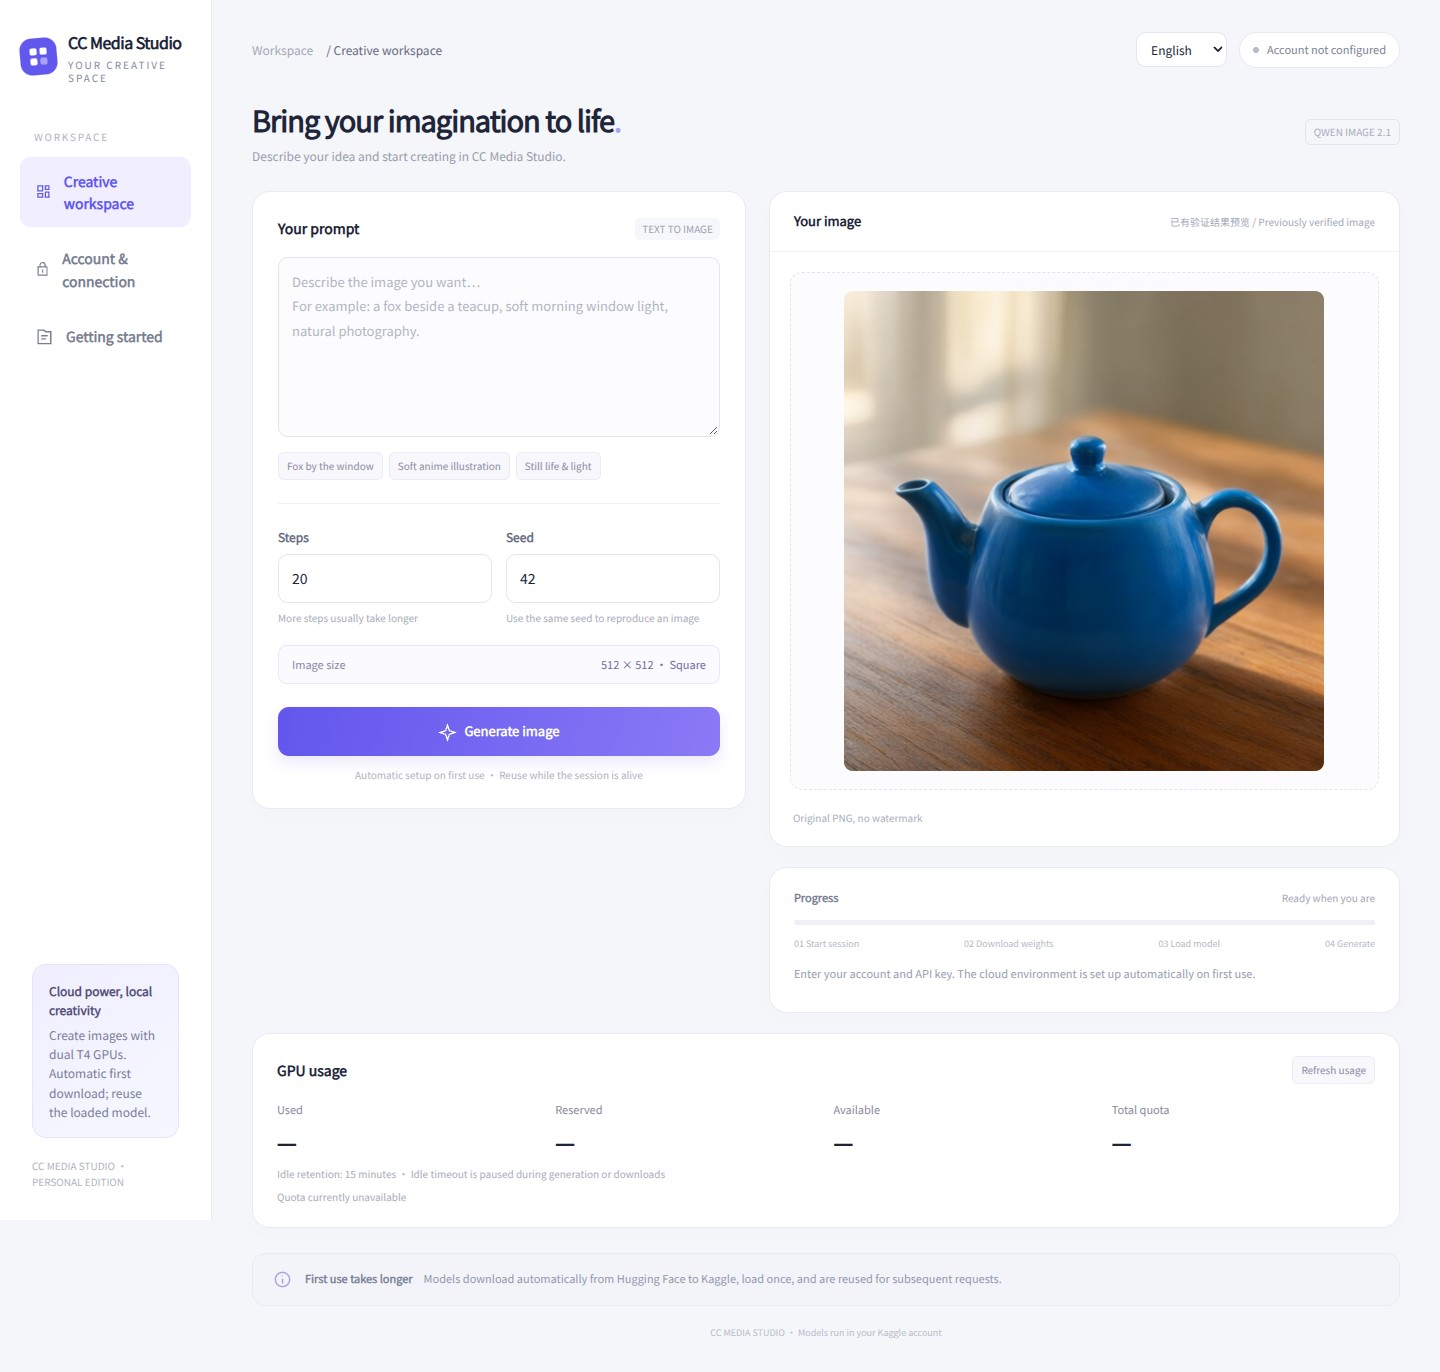
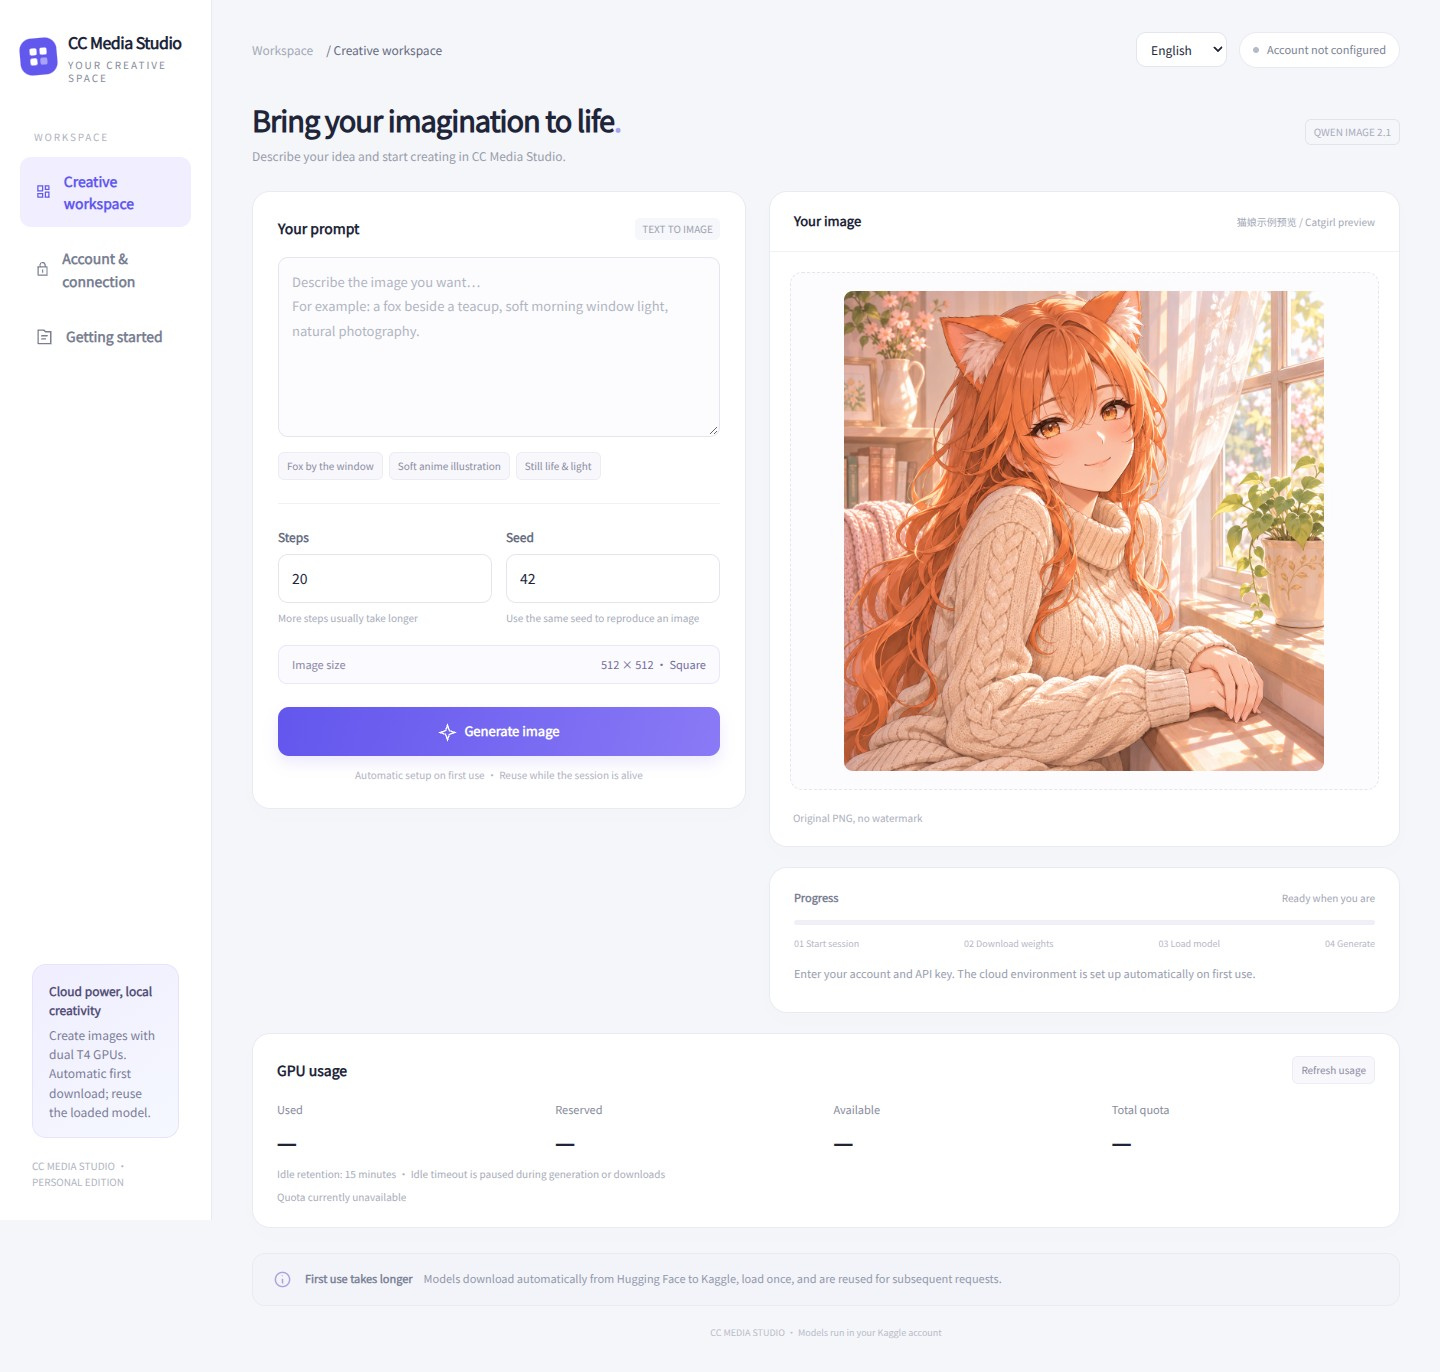
Replace GUI documentation preview with an anime catgirl

Changed region(s): [[0.5625, 0.2143, 0.9375, 0.5816], [0.8125, 0.1531, 0.9062, 0.1837]]

diff --git a/README.en.md b/README.en.md
@@ -4,7 +4,7 @@
 
 ![CC Media Studio English interface](docs/gui-en.jpg)
 
-The preview uses a previously verified generated image. No live account quota is connected in this screenshot.
+The interface preview uses an illustrative catgirl image, not a verified Kaggle output. No live account quota is connected in this screenshot.
 
 A personal media studio powered by your own Kaggle GPU. Image generation is available now; the CC Media Studio name leaves room for future video features. Model downloads, loading, and inference run on Kaggle. Your computer does not need a GPU, CUDA, PyTorch, or model weights.
 

diff --git a/README.md b/README.md
@@ -4,7 +4,7 @@
 
 ![CC Media Studio 中文界面](docs/gui.jpg)
 
-界面预览使用此前已验证的生图结果；截图未连接真实额度。
+界面使用猫娘示例图预览（非 Kaggle 实测输出）；截图未连接真实额度。
 
 在 Windows、Linux、macOS 上使用自己的 Kaggle GPU 生图。客户端只负责界面、请求和图片显示，模型下载、加载、推理都在 Kaggle 完成；本机无需显卡、CUDA、PyTorch 或模型权重。
 
